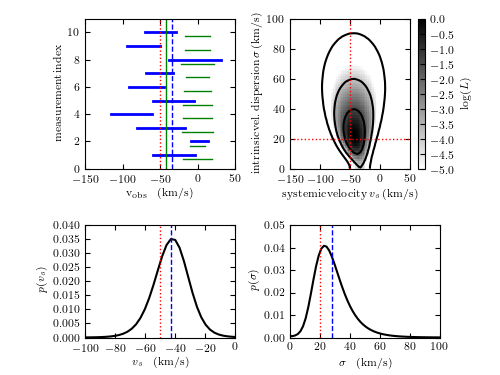
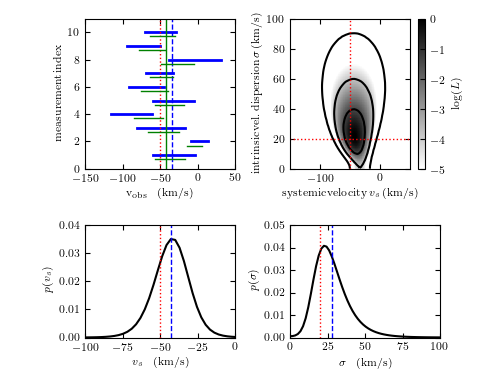
Fixing figure 5.27

diff --git a/book_figures/chapter5/fig_hierarchical_bayes_RV.html b/book_figures/chapter5/fig_hierarchical_bayes_RV.html
@@ -334,7 +334,7 @@ a Gaussian scatter given by unknown velocity dispersion.</p>
 <span class="n">sigp</span> <span class="o">=</span> <span class="n">Ed</span>
 <span class="k">for</span> <span class="n">i</span> <span class="ow">in</span> <span class="nb">range</span><span class="p">(</span><span class="mi">0</span><span class="p">,</span> <span class="n">N</span><span class="p">):</span>
     <span class="n">sig0</span> <span class="o">=</span> <span class="mi">1</span> <span class="o">/</span> <span class="n">np</span><span class="o">.</span><span class="n">sqrt</span><span class="p">(</span><span class="mi">1</span> <span class="o">/</span> <span class="n">sigp</span> <span class="o">**</span> <span class="mi">2</span> <span class="o">+</span> <span class="mi">1</span> <span class="o">/</span> <span class="n">ei</span><span class="p">[</span><span class="n">i</span><span class="p">]</span> <span class="o">**</span> <span class="mi">2</span><span class="p">)</span>
-    <span class="n">mu0</span> <span class="o">=</span> <span class="p">(</span><span class="n">mup</span> <span class="o">/</span> <span class="n">sigp</span> <span class="o">**</span> <span class="mi">2</span> <span class="o">+</span> <span class="n">xi</span><span class="p">[</span><span class="n">i</span><span class="p">]</span> <span class="o">/</span> <span class="n">ei</span><span class="p">[</span><span class="n">i</span><span class="p">]</span> <span class="o">**</span> <span class="mi">2</span><span class="p">)</span> <span class="o">/</span> <span class="n">sig0</span> <span class="o">**</span> <span class="mi">2</span>
+    <span class="n">mu0</span> <span class="o">=</span> <span class="p">(</span><span class="n">mup</span> <span class="o">/</span> <span class="n">sigp</span> <span class="o">**</span> <span class="mi">2</span> <span class="o">+</span> <span class="n">xi</span><span class="p">[</span><span class="n">i</span><span class="p">]</span> <span class="o">/</span> <span class="n">ei</span><span class="p">[</span><span class="n">i</span><span class="p">]</span> <span class="o">**</span> <span class="mi">2</span><span class="p">)</span> <span class="o">*</span> <span class="p">(</span><span class="n">sig0</span> <span class="o">**</span> <span class="mi">2</span><span class="p">)</span>
     <span class="n">xL</span> <span class="o">=</span> <span class="n">mu0</span> <span class="o">-</span> <span class="n">sig0</span>
     <span class="n">xR</span> <span class="o">=</span> <span class="n">mu0</span> <span class="o">+</span> <span class="n">sig0</span>
     <span class="n">plt</span><span class="o">.</span><span class="n">plot</span><span class="p">([</span><span class="n">xL</span><span class="p">,</span> <span class="n">xR</span><span class="p">],</span> <span class="p">[</span><span class="n">i</span> <span class="o">+</span> <span class="mf">0.7</span><span class="p">,</span> <span class="n">i</span> <span class="o">+</span> <span class="mf">0.7</span><span class="p">],</span> <span class="s1">&#39;g&#39;</span><span class="p">,</span> <span class="n">lw</span><span class="o">=</span><span class="mi">1</span><span class="p">)</span>

diff --git a/_downloads/b67c6bcfad93c5796b91ae0849412ec7/fig_hierarchical_bayes_RV.py b/_downloads/b67c6bcfad93c5796b91ae0849412ec7/fig_hierarchical_bayes_RV.py
@@ -150,7 +150,7 @@ mup = Ev
 sigp = Ed
 for i in range(0, N):
     sig0 = 1 / np.sqrt(1 / sigp ** 2 + 1 / ei[i] ** 2)
-    mu0 = (mup / sigp ** 2 + xi[i] / ei[i] ** 2) / sig0 ** 2
+    mu0 = (mup / sigp ** 2 + xi[i] / ei[i] ** 2) * (sig0 ** 2)
     xL = mu0 - sig0
     xR = mu0 + sig0
     plt.plot([xL, xR], [i + 0.7, i + 0.7], 'g', lw=1)
